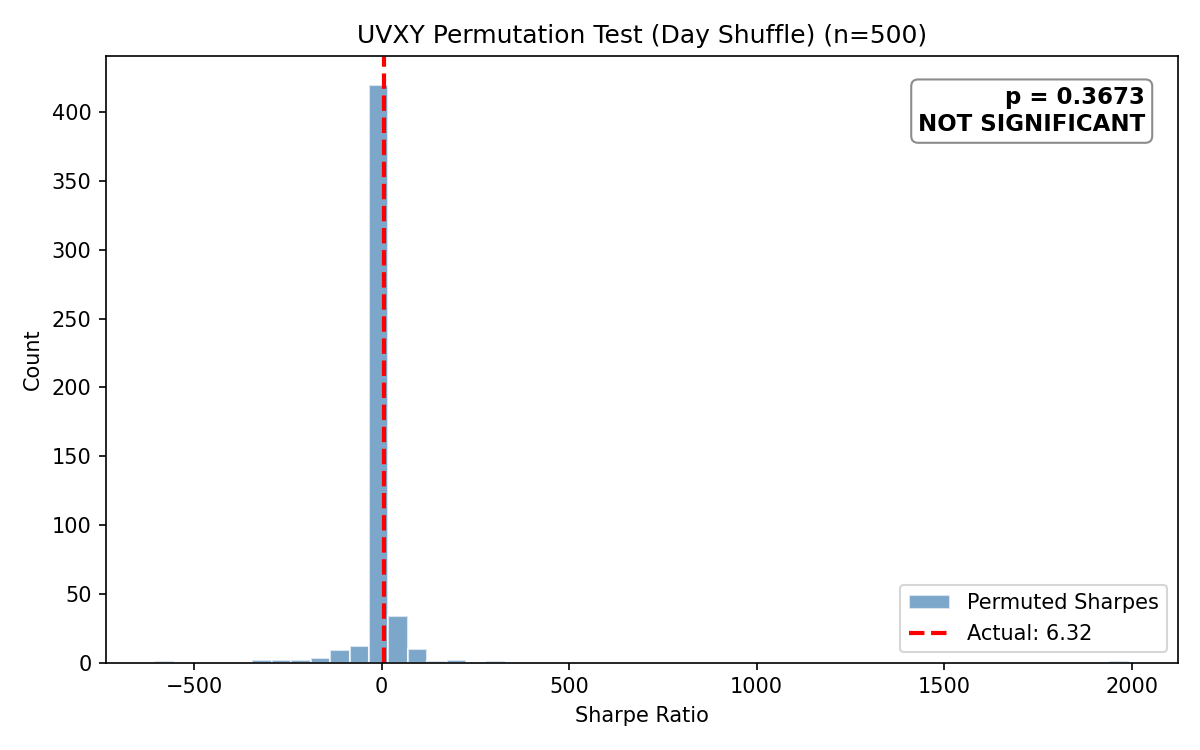
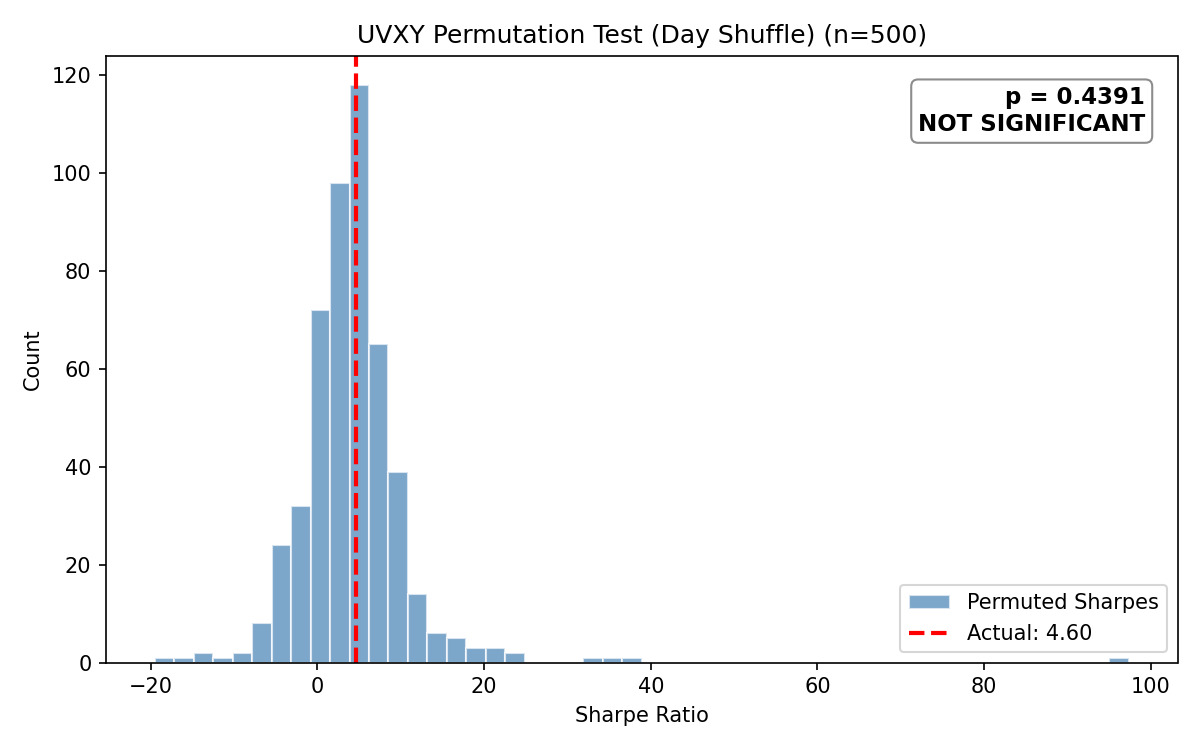
Add MANUALLY_VALIDATED list for BLK; refresh overnight pipeline results (Mar 31)
- bot.py: Add MANUALLY_VALIDATED = ["BLK"] with startup warning print
- README: Document BLK manual validation exception (PF=2.82, p=0.89 permutation)
- results: Latest overnight pipeline run (Mar 31 2026) — T1: AAPL/MSFT/AMZN/GS/QQQ/WMT/SCHW, T3: META/CRWD/SNOW/MS/HD/SBUX
- permutation_test_results: Updated UVXY results and combined summary

diff --git a/bot.py b/bot.py
@@ -32,6 +32,11 @@ TIER2_STOCKS = []
 TIER3_STOCKS = ["META", "CRWD", "SNOW", "MS", "HD", "SBUX"]
 PENDING_VALIDATION = ["SHOP", "PLTR"]
 
+# ── Manually validated stocks ────────────────────────────────────────
+# Passed manual backtest (PF=2.82, Sharpe=1.14) but fail automated pipeline
+# due to insufficient trade count for permutation test. Monitor closely.
+MANUALLY_VALIDATED = ["BLK"]
+
 STOCKS = TIER1_STOCKS + TIER2_STOCKS + TIER3_STOCKS
 WATCHLIST = []
 
@@ -1219,6 +1224,10 @@ print(f"\n  Tier 2 — 50% size ({len(TIER2_STOCKS)} stocks):")
 print(f"    {', '.join(TIER2_STOCKS)}")
 print(f"\n  Tier 3 — 25% size, monitor ({len(TIER3_STOCKS)} stocks):")
 print(f"    {', '.join(TIER3_STOCKS)}")
+
+if MANUALLY_VALIDATED:
+    for _mv in MANUALLY_VALIDATED:
+        print(f"  ⚠ {_mv}: manually validated — monitor closely")
 
 print(f"\n  Total stocks monitored: {len(STOCKS)}")
 print(f"  Short eligible: {', '.join(SHORT_ELIGIBLE)}")

diff --git a/README.md b/README.md
@@ -227,11 +227,13 @@ Stocks are assigned to tiers based on permutation test p-values, backtest perfor
 
 | Tier | Sizing | Current Stocks |
 |------|--------|----------------|
-| **Tier 1** | Full ATR | AAPL, MSFT, AMZN, GS, QQQ, WMT, SCHW, BLK |
+| **Tier 1** | Full ATR | AAPL, MSFT, AMZN, GS, QQQ, WMT, SCHW, BLK ⚠ |
 | **Tier 2** | 50% ATR | (none currently) |
 | **Tier 3** | 25% ATR | META, CRWD, SNOW, MS, HD, SBUX |
 
 **65+ stocks** tested across the overnight pipeline. The pipeline auto-classifies stocks into tiers based on p-values and profit factors.
+
+**⚠ BLK** is in `MANUALLY_VALIDATED` — it passed manual backtest (PF=2.82, Sharpe=1.14, 28 trades) but the permutation test p=0.89 (not significant) due to low trade count. It's in Tier 1 because the edge survives transaction costs, but should be monitored closely. Startup prints a warning.
 
 ## Permutation Test (Statistical Validation)
 
